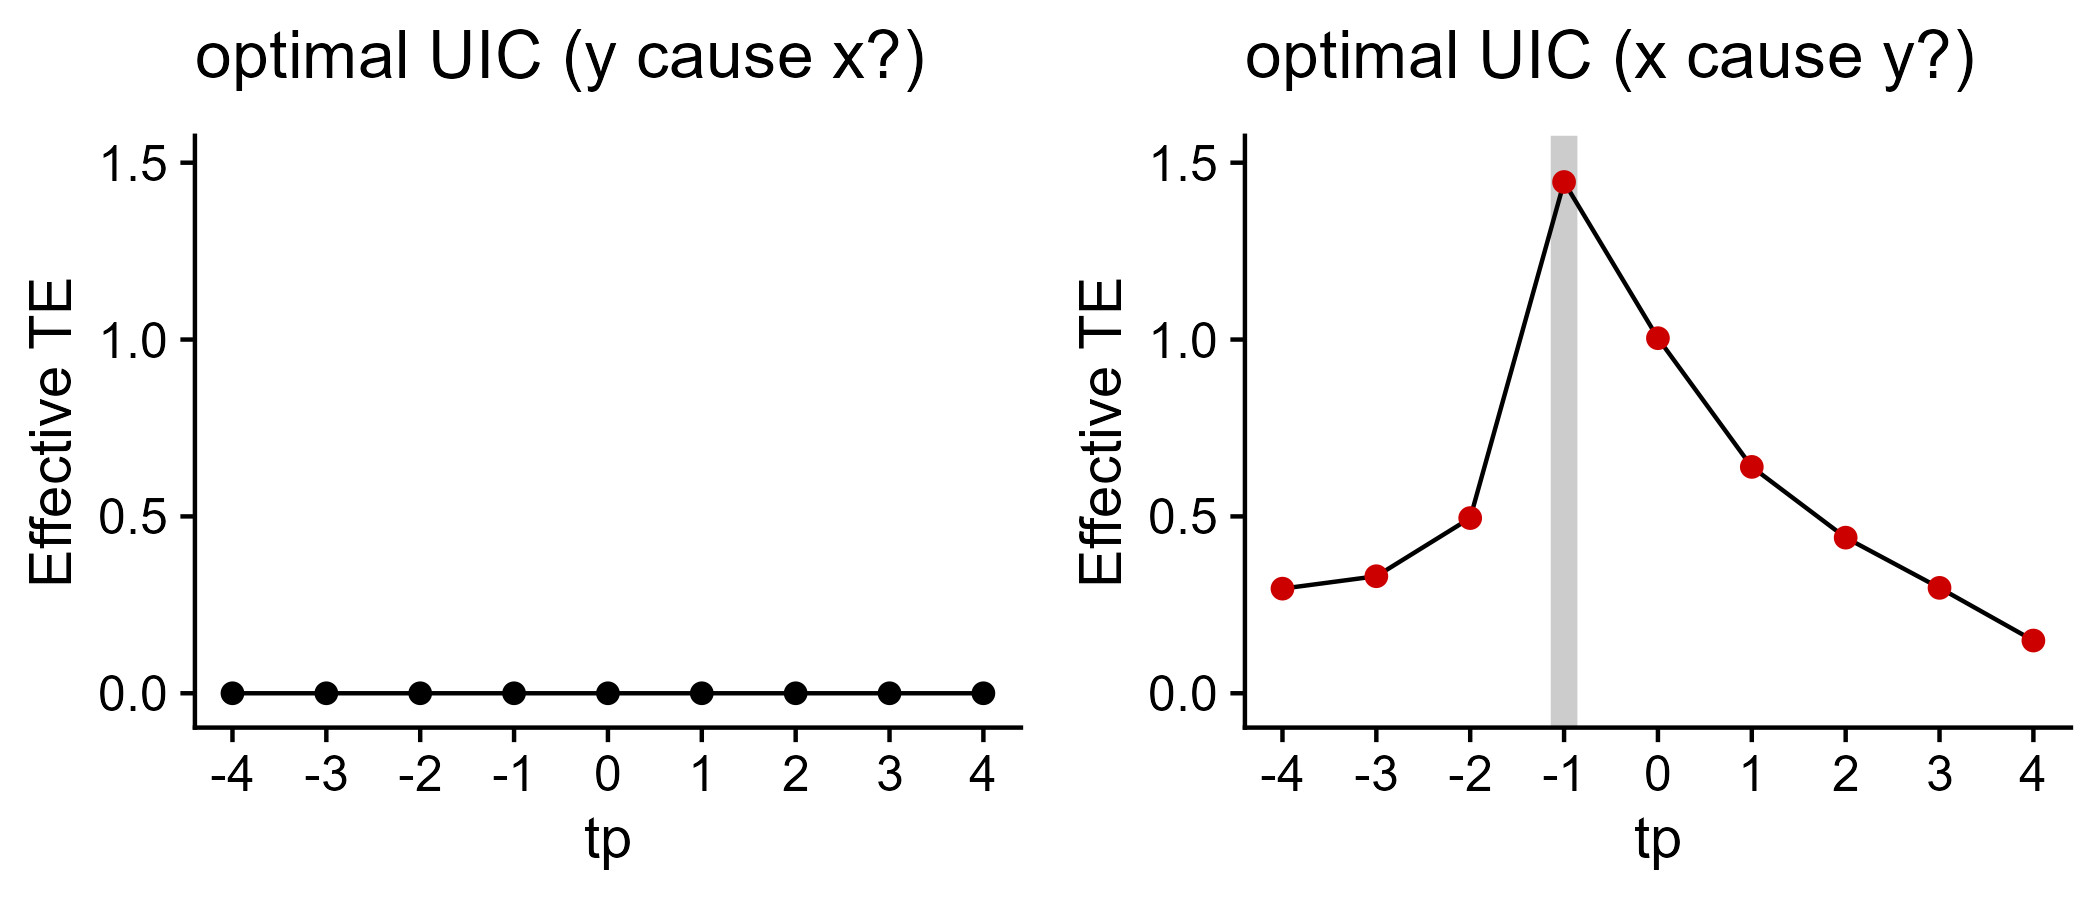
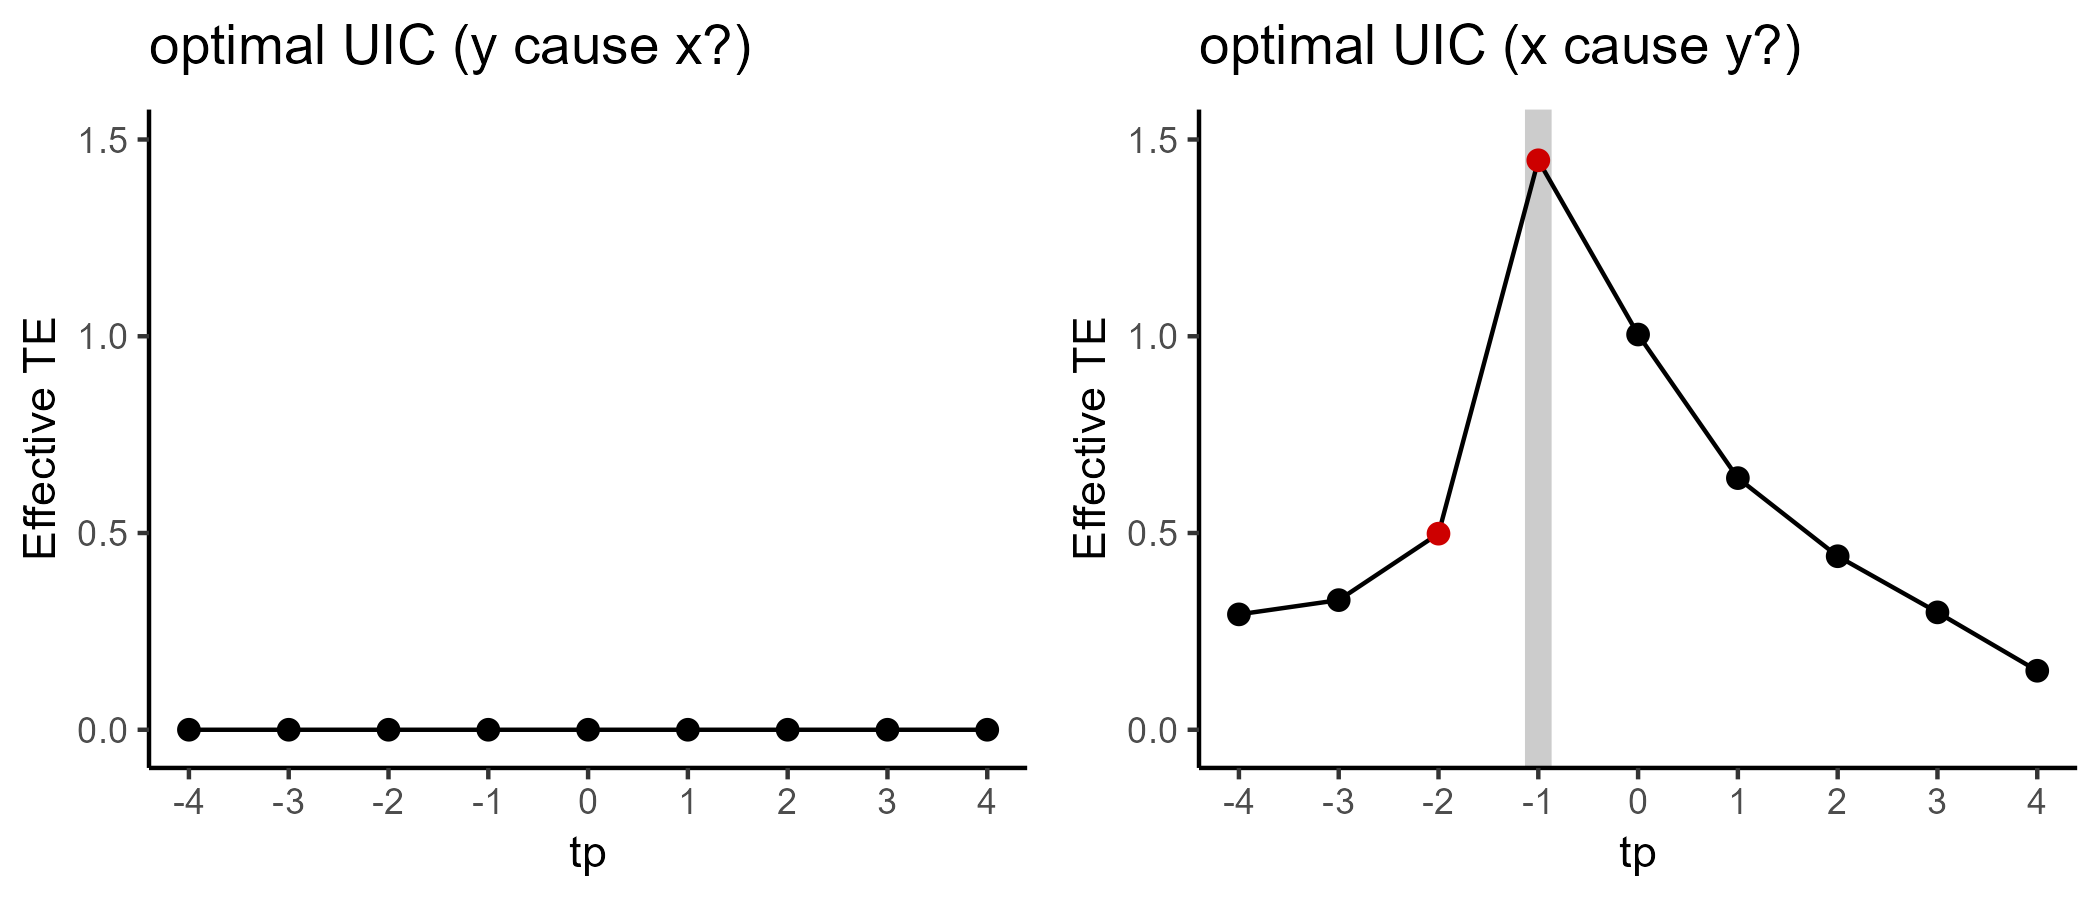
update v0.9.14

diff --git a/README.md b/README.md
@@ -11,7 +11,7 @@ remotes::install_github("yutakaos/rUIC")
 
 ### Load library and generate model time-series
 ```r
-library(rUIC); packageVersion("rUIC") # v0.9.11
+library(rUIC); packageVersion("rUIC") # v0.9.14
 
 # simulate logistic map
 tl <- 400  # time length
@@ -85,8 +85,8 @@ In rUIC package, a wrapper functions is implemented to compute UIC without manua
 
 ```r
 ## compute UIC using optimal embedding dimension (the same results as No.3)
-uic_opt_xy <- uic.optimal(block, lib_var="x", tar_var="y", E=0:8, tau=1, tp=-4:4)
-uic_opt_yx <- uic.optimal(block, lib_var="y", tar_var="x", E=0:8, tau=1, tp=-4:4)
+uic_opt_xy <- uic.optimal(block, lib_var="x", tar_var="y", E=0:8, tau=1, tp=-4:4, sequential_test=TRUE)
+uic_opt_yx <- uic.optimal(block, lib_var="y", tar_var="x", E=0:8, tau=1, tp=-4:4, sequential_test=TRUE)
 ```
 
 <figure>
@@ -119,7 +119,7 @@ uic_opt_yx <- uic.optimal(block, lib_var="y", tar_var="x", E=0:8, tau=1, tp=-4:4
     - `pval` in the output indicates _p_ value to test alternative hypothesis _te_ > 0, which means **y causes x in the sense of transfer entropy**.
 
 - `uic.optimal`: Wrapper function for computing UIC, which return statistics only.
-    - `E`, `tau` and `tp` accept vectors. All possible combinations of  `E`, `tau`, and `tp` are used.
+    - `E` and `tp` accept vectors. All possible combinations of  `E` and `tp` are used. `tau` accept a scalar value only.
     - UIC is computed using the optimal embedding dimension.
     - Potential causal variables should be specified by `tar_var`.
     - Specify `cond_var` for the multivariate UIC.
@@ -141,6 +141,8 @@ Several arguments in rUIC package is identical with those used in rEDM package. 
 - `nn` : the number of neighbors used for prediction
     - **num_neighbors** argument in rEDM package.
     - "e+1" can be used if nn = E + 1.
+
+- `sequential_test` : explores the optimal `tp` based on sequential conditional tests.
 
 - `is_naive` : whether rEDM-style estimator is used
     - Whether to return naive estimator.
@@ -165,3 +167,4 @@ Several arguments in rUIC package is identical with those used in rEDM package. 
 | `ete`      | Effective transfer entropy (original TE - surrogate TE)      |
 | `pval`     | The _p_ value to test alternative hypothesis, te > 0         |
 | `n_surr`   | The number of surrogate data generated to compute _p_ value  |
+| `seq_test` | The results of sequential tests                              |
